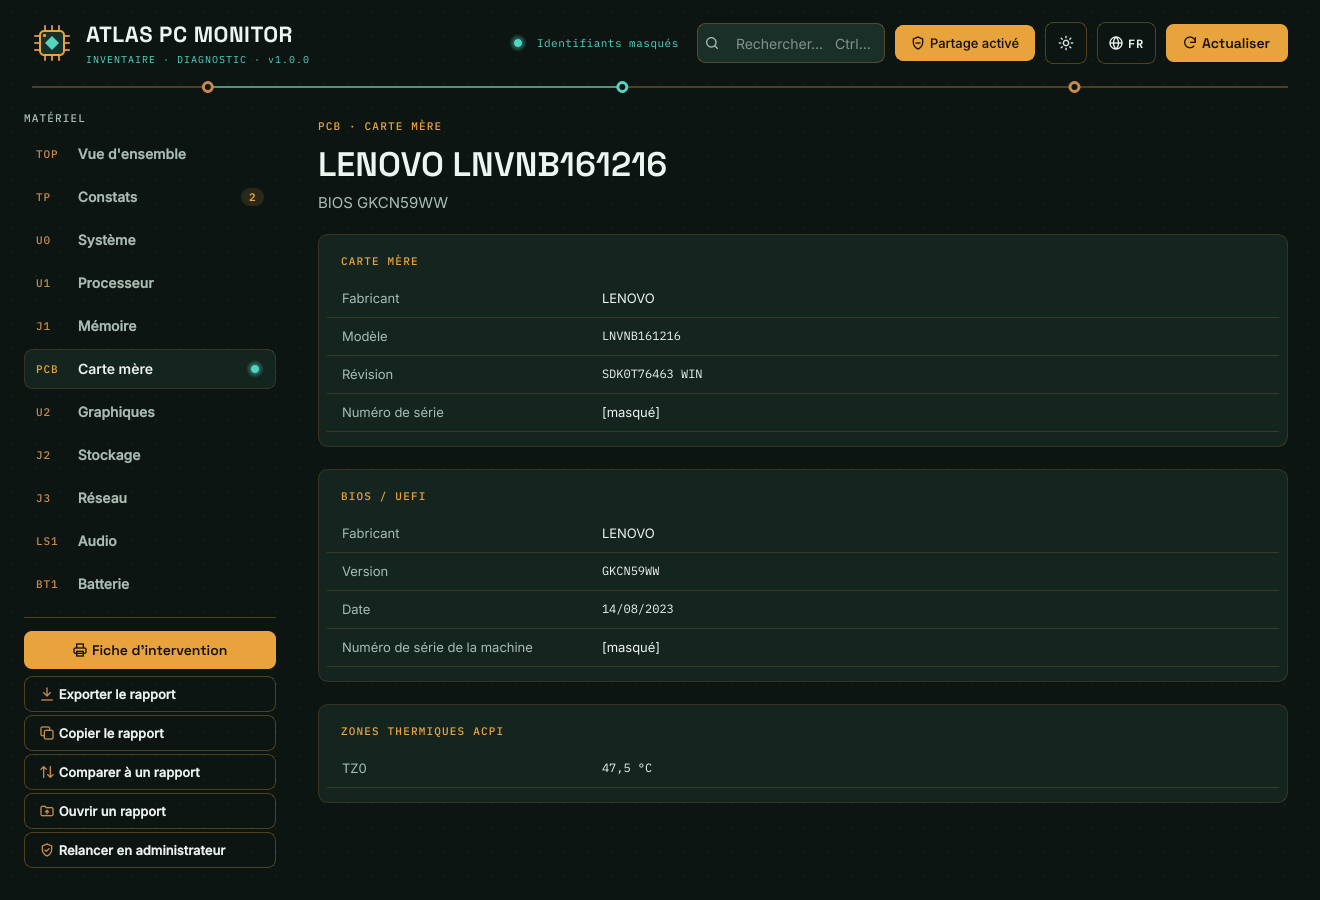
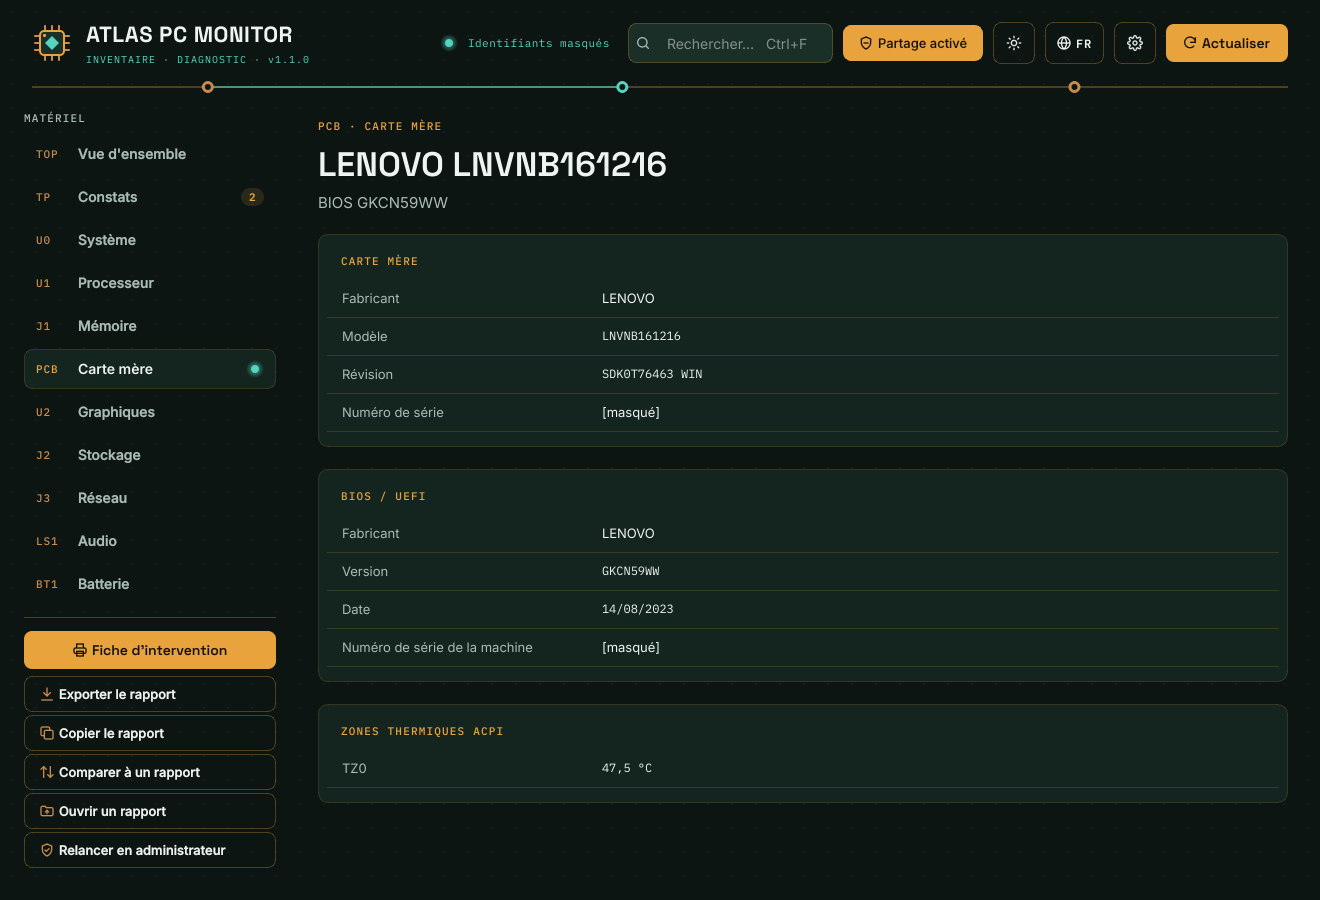
Version 1.1.0
Paramètres, mises à jour depuis GitHub et fenêtre « Nouveautés ».
CHANGELOG daté, captures régénérées, tests des nouveautés indépendants
de la version.

Claude-Session: https://claude.ai/code/session_01XfwvMKAnyeA2fXbX2dGTqA

Changed region(s): [[0.3417, 0.0, 0.8697, 0.0933]]

diff --git a/tests/test_changelog.py b/tests/test_changelog.py
@@ -71,7 +71,7 @@ def test_window_after_an_update(qtbot, monkeypatch, tmp_path):
     dialog = w.whats_new_dialog
     labels = [child.text() for child in dialog.findChildren(type(w.status))]
     assert f"Nouveautés de la v{__version__}" in labels
-    assert "Mode partage" in dialog.text.toPlainText() or "Inventaire" in dialog.text.toPlainText()
+    assert dialog.text.toPlainText().startswith("Ajouts")
     assert settings.load_config()["last_version"] == __version__
 
     # Relancée dans la même version : plus de fenêtre.
@@ -91,4 +91,4 @@ def test_window_from_the_settings_in_english(win, qtbot):
     dialog = win.whats_new_dialog
     labels = [child.text() for child in dialog.findChildren(type(win.settings_dialog.update_status))]
     assert f"What's new in v{__version__}" in labels
-    assert "Sharing mode" in dialog.text.toPlainText()
+    assert dialog.text.toPlainText().startswith("Added")

diff --git a/atlas/__init__.py b/atlas/__init__.py
@@ -3,4 +3,4 @@
 Atlas PC Monitor — Windows hardware inventory, interface in French and English.
 """
 
-__version__ = "1.0.0"
+__version__ = "1.1.0"

diff --git a/README.md b/README.md
@@ -185,10 +185,10 @@ Windows PCs (“Export report” button, or `AtlasPCMonitor.exe --json -o report
 findings, the intervention sheet, exports and comparison from them.
 
 ```
-chmod +x AtlasPCMonitor-1.0.0-x86_64.AppImage
-./AtlasPCMonitor-1.0.0-x86_64.AppImage                    interface
-./AtlasPCMonitor-1.0.0-x86_64.AppImage report.json        opens a report directly
-./AtlasPCMonitor-1.0.0-x86_64.AppImage --fiche report.json -o sheet.html
+chmod +x AtlasPCMonitor-1.1.0-x86_64.AppImage
+./AtlasPCMonitor-1.1.0-x86_64.AppImage                    interface
+./AtlasPCMonitor-1.1.0-x86_64.AppImage report.json        opens a report directly
+./AtlasPCMonitor-1.1.0-x86_64.AppImage --fiche report.json -o sheet.html
 ```
 
 A report can also be opened by dragging it onto the window, or with Ctrl+O. If the AppImage does not
@@ -441,10 +441,10 @@ JSON faits sur des PC Windows (bouton « Exporter le rapport », ou `AtlasPCMoni
 et en tire constats, fiche d'intervention, exports et comparaison.
 
 ```
-chmod +x AtlasPCMonitor-1.0.0-x86_64.AppImage
-./AtlasPCMonitor-1.0.0-x86_64.AppImage                    interface
-./AtlasPCMonitor-1.0.0-x86_64.AppImage rapport.json       ouvre directement un rapport
-./AtlasPCMonitor-1.0.0-x86_64.AppImage --fiche rapport.json -o fiche.html
+chmod +x AtlasPCMonitor-1.1.0-x86_64.AppImage
+./AtlasPCMonitor-1.1.0-x86_64.AppImage                    interface
+./AtlasPCMonitor-1.1.0-x86_64.AppImage rapport.json       ouvre directement un rapport
+./AtlasPCMonitor-1.1.0-x86_64.AppImage --fiche rapport.json -o fiche.html
 ```
 
 Un rapport s'ouvre aussi par glisser-déposer sur la fenêtre, ou avec Ctrl+O. Si l'AppImage ne démarre

diff --git a/CHANGELOG.md b/CHANGELOG.md
@@ -8,7 +8,7 @@ Toutes les évolutions notables d'Atlas PC Monitor sont décrites ici. Le format
 [Keep a Changelog](https://keepachangelog.com/fr/1.1.0/) et les numéros de version suivent
 [le versionnage sémantique](https://semver.org/lang/fr/).
 
-## [Unreleased]
+## [1.1.0] - 2026-11-14
 
 ### English
 
@@ -66,4 +66,5 @@ Première version publique. Atlas PC Monitor prend la suite d'Atlas PC, un outil
 - Exécutables Windows (fichier unique et dossier) avec leurs propriétés de fichier, et AppImage Linux, construits et vérifiés par la CI sur un vrai inventaire Windows.
 - Mentions tierces et textes de licence livrés avec chaque version (Qt et PySide6 sous LGPL-3.0).
 
+[1.1.0]: https://github.com/Bulls64/atlas-pc-monitor/releases/tag/v1.1.0
 [1.0.0]: https://github.com/Bulls64/atlas-pc-monitor/releases/tag/v1.0.0
